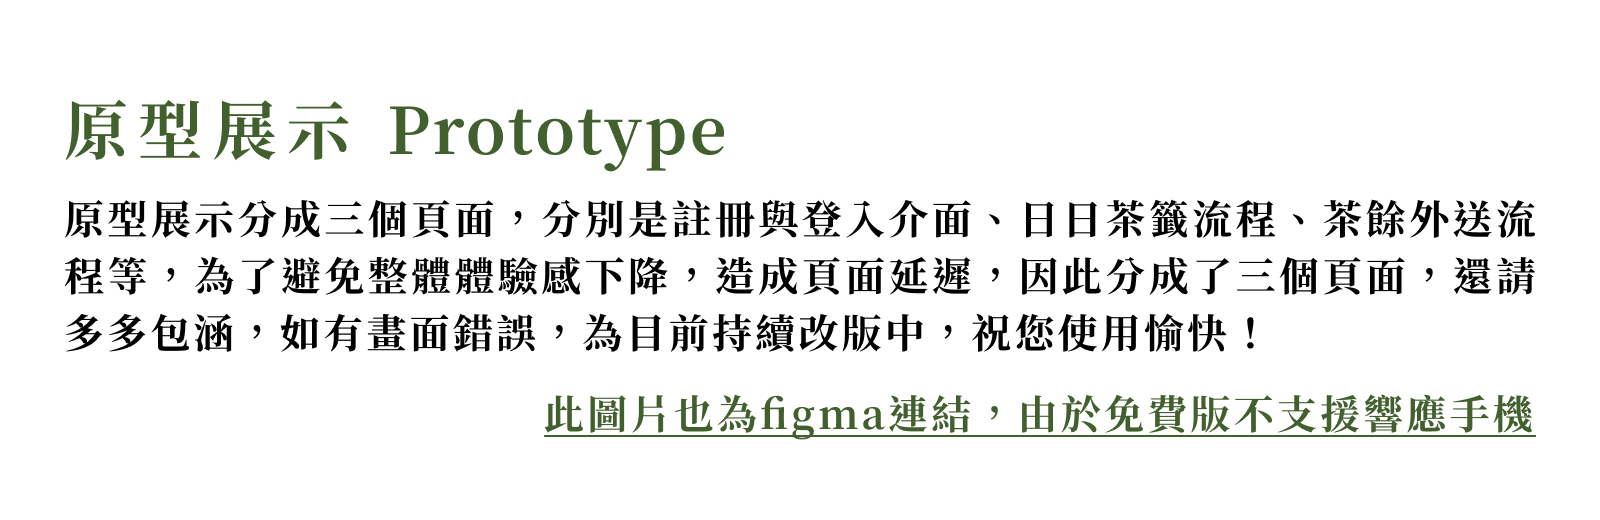
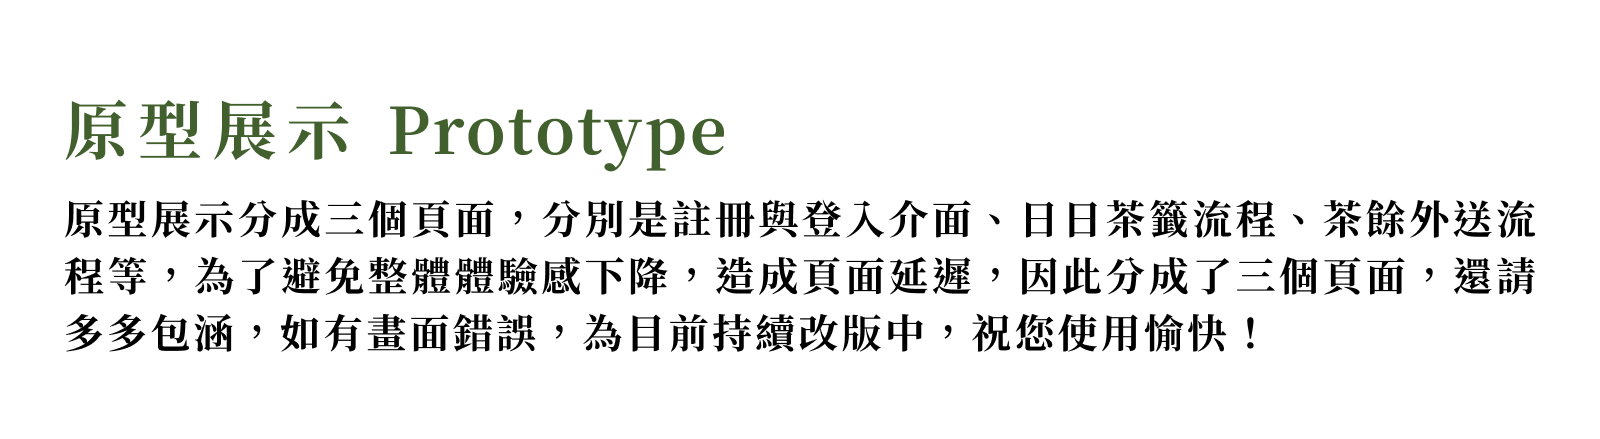
tealab

Changed region(s): [[0.0312, 0.1777, 0.9688, 0.6811], [0.0312, 0.7107, 0.9688, 0.8588]]

diff --git a/css/test.css b/css/test.css
@@ -1,0 +1,83 @@
+/* Styles from the GreenSock website */
+body {
+  font-weight: 300;
+}
+.ipsType_right {
+  text-align: right;
+}
+.ipsType_center {
+  text-align: center;
+}
+.cInnerContent {
+  max-width: 1240px;
+  margin-left: auto;
+  margin-right: auto;
+}
+.ipsSpacer_bottom_double {
+  margin-bottom: 30px;
+}
+.ipsGrid {
+  display: inline-block;
+  display: -ms-flexbox;
+  display: flex;
+  flex-wrap: wrap;
+}
+.ipsGrid::before,
+.ipsGrid::after {
+  display: table;
+  content: "";
+  line-height: 0;
+}
+.ipsGrid > [class*="ipsGrid_span"] {
+  display: block;
+  width: 100%;
+  min-height: 30px;
+  box-sizing: border-box;
+}
+.ipsGrid > .ipsGrid_span5 {
+  width: 40.42553191489362%;
+}
+.ipsGrid > .ipsGrid_span7 {
+  width: 57.44680851063829%;
+}
+.ipsGrid > [class*="ipsGrid_span"] {
+  float: left;
+  margin-left: 2%;
+}
+.ipsGrid > [class*="ipsGrid_span"]:first-child {
+  margin-left: 0;
+}
+.feature {
+  display: flex;
+  align-items: center;
+}
+.card {
+  margin-bottom: 30px;
+  border: 1px solid #cccccc;
+  border-radius: 8px;
+  overflow: hidden;
+  background: #ffffff;
+  box-shadow: 1px 1px 5px 1px #cccccc;
+  /*   transition: 0.3s; */
+}
+.featured-image-container .card {
+  padding: 10px;
+  height: 0;
+  padding-bottom: calc(100% - 10px);
+}
+h2.heading_large {
+  font-size: 1.8em;
+}
+img {
+  max-width: 100%;
+}
+
+.header-section {
+  margin: 200px auto;
+}
+
+.gs_reveal {
+  opacity: 0;
+  visibility: hidden;
+  will-change: transform, opacity;
+}

diff --git a/tealab.html b/tealab.html
@@ -150,12 +150,21 @@
             <img class="tealab" src="./imgs/report/26.png" alt="" />
             <img class="tealab" src="./imgs/report/27.png" alt="" />
             <img class="tealab" src="./imgs/report/28.png" alt="" />
+            <img class="tealab" src="./imgs/report/29.png" alt="" />
             <a
-              class="tealab"
-              href="https://www.figma.com/proto/1jJEbBlAeNikIQcqDnhTvJ/Portfolio?page-id=536%3A116&node-id=651%3A6168&viewport=137%2C-703%2C0.08&scaling=scale-down&starting-point-node-id=651%3A6168&show-proto-sidebar=1"
+              href="https://www.figma.com/proto/1jJEbBlAeNikIQcqDnhTvJ/Portfolio?page-id=536%3A116&node-id=683%3A7834&viewport=-2105%2C-1421%2C0.16&scaling=scale-down&starting-point-node-id=694%3A9702&show-proto-sidebar=1"
               target="_blank"
-              ><img class="tealab" src="./imgs/report/29.png" alt=""
-            /></a>
+            >
+              <div class="d-grid gap-2 col-6 mx-auto">
+                <button
+                  class="button button-primary"
+                  id="button-primary"
+                  type="button"
+                >
+                  <span lang="Lora">Figma</span> 手機版連結
+                </button>
+              </div>
+            </a>
             <iframe
               style="border: 1px solid rgba(0, 0, 0, 0.1)"
               width="1000"

diff --git a/css/tealab.css b/css/tealab.css
@@ -233,6 +233,7 @@ body {
 .figma {
   width: 78%;
   height: 100%;
+  background-color: white;
 }
 
 .tealab {
@@ -241,6 +242,39 @@ body {
   display: block;
   width: 100%;
   height: 100%;
+}
+
+/* .button.active {
+  background: #42602e;
+  border-color: transparent;
+  color: white;
+} */
+
+.button {
+  height: 3rem;
+  padding-left: 0.75rem;
+  padding-right: 0.75rem;
+  padding-top: 0.375rem;
+  padding-bottom: 0.375rem;
+  border-radius: 16px;
+  transition: all 0.5s;
+  font-weight: 500;
+  font-size: 16px;
+}
+
+.button-primary {
+  background: linear-gradient(0deg, #c1dfc4 0%, #deecdd 100%);
+  border-color: transparent;
+  color: #42602e;
+  transition: all 0.5s;
+}
+
+.button:hover {
+  scale: 110%;
+}
+
+.gap-2 {
+  padding-bottom: 40px;
 }
 
 .img1 {
@@ -442,6 +476,14 @@ body {
   .p-drawing {
     font-size: 14px;
   }
+  .button {
+    font-size: 14px;
+    height: 2.4rem;
+  }
+
+  .gap-2 {
+    padding-bottom: 20px;
+  }
 
   .figmom {
     width: 95%;
@@ -470,6 +512,7 @@ body {
   .figma {
     width: 100%;
   }
+
   .subtitle-drawing {
     font-size: 40px;
   }
